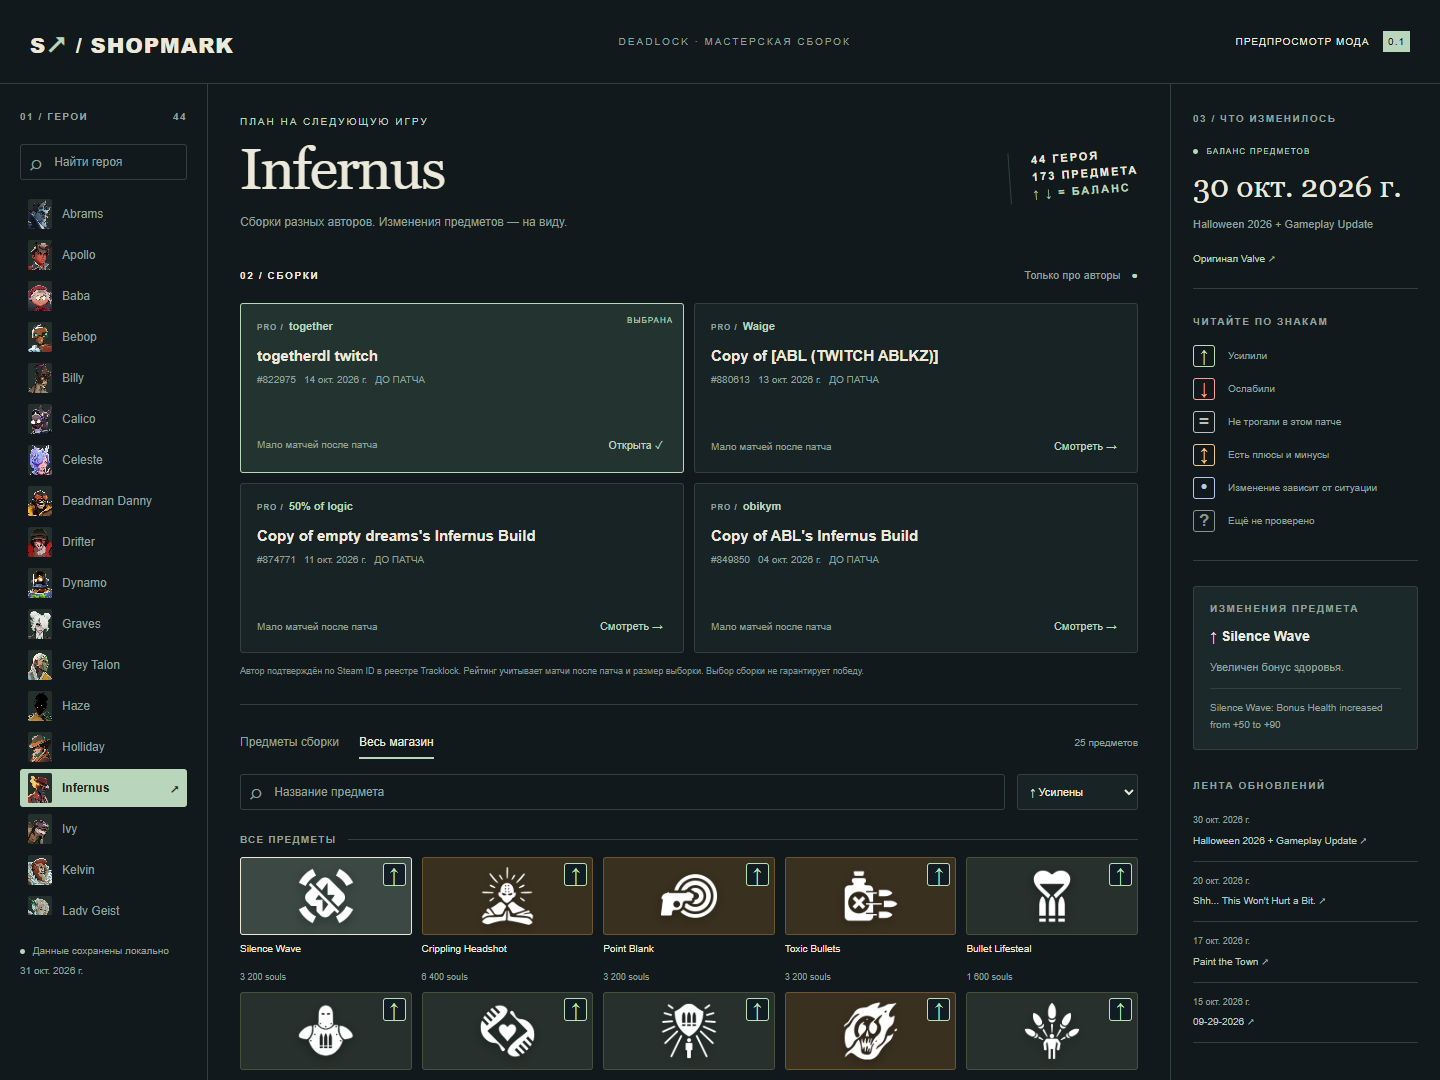
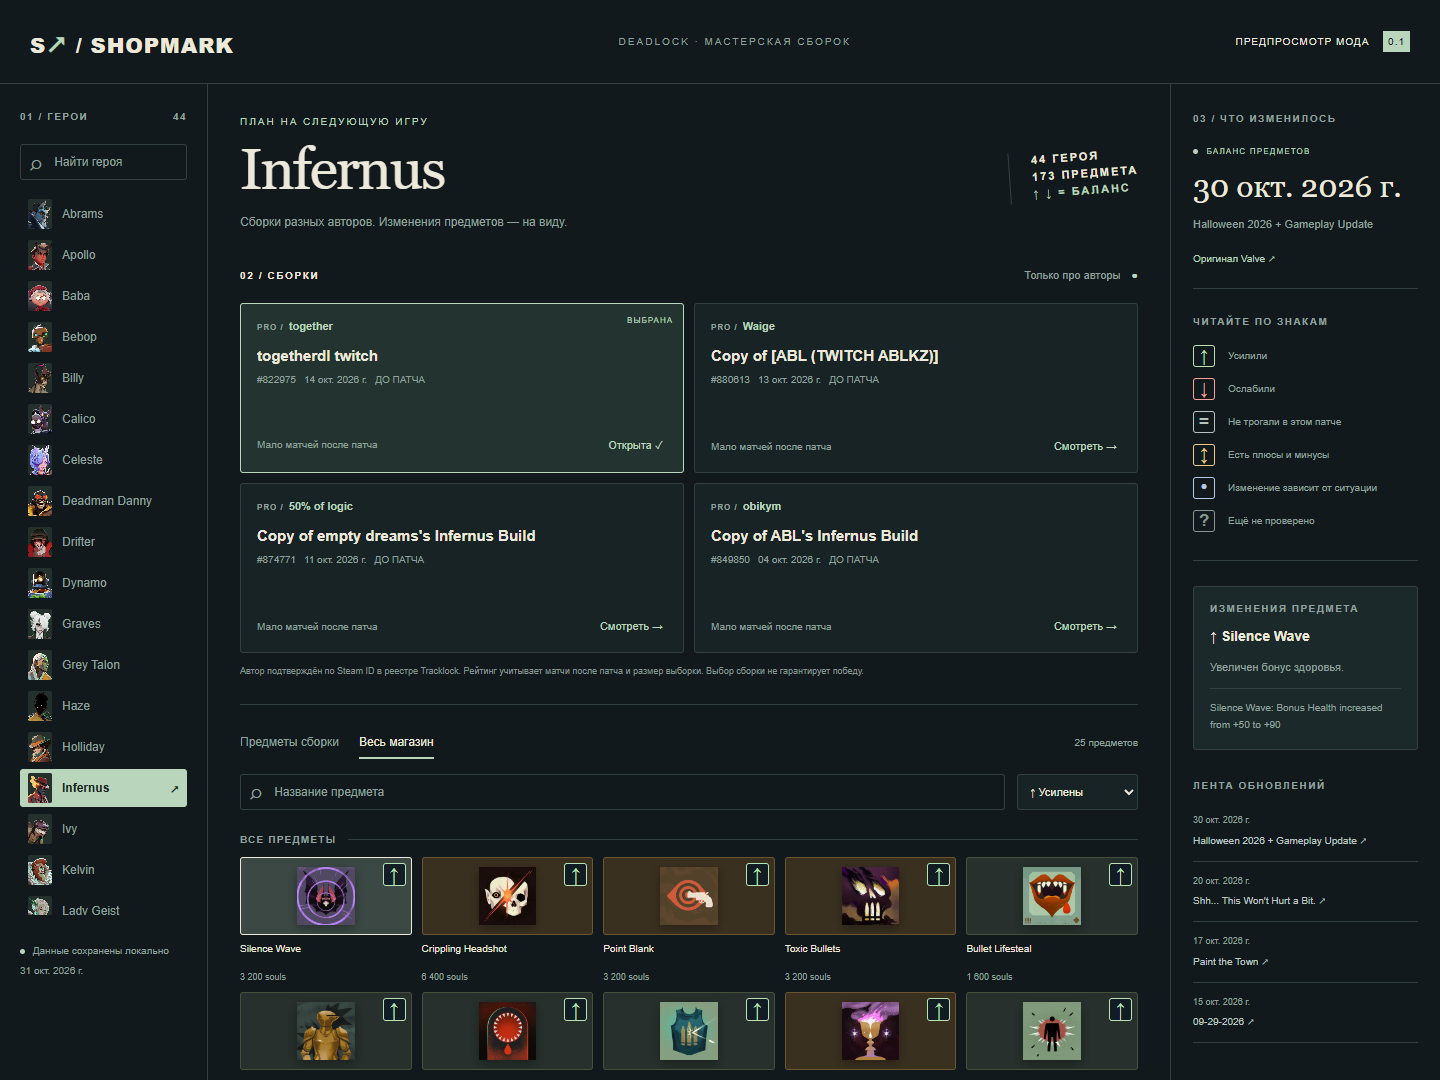
Present public alpha with native shop artwork and guarded local installer

diff --git a/README.md b/README.md
@@ -1,10 +1,24 @@
 # Shopmark
 
+![Shopmark — builds and balance](docs/banner.svg)
+
+[![Checks](https://github.com/d1rtym0lly/shopmark/actions/workflows/check.yml/badge.svg)](https://github.com/d1rtym0lly/shopmark/actions/workflows/check.yml) [![MIT](https://img.shields.io/badge/license-MIT-b9d5bb)](LICENSE) [![Alpha](https://img.shields.io/badge/status-alpha-f0cb7e)](docs/COMPATIBILITY.md)
+
+**[Скачать альфу](https://github.com/d1rtym0lly/shopmark/releases) · [Установка и ограничения](#использование-в-игре) · [Совместимость](docs/COMPATIBILITY.md)**
+
 Сборки разных про авторов и отметки баланса предметов в штатном магазине Deadlock.
 
 **0.1.0 — предварительная сборка для проверки.** VPK скомпилирован для build 6839, проверены контрольные суммы и совпадение исходных ресурсов с установленной игрой. Проверка в игровом интерфейсе пока не завершена: тестовый запуск не получил соединение со Steam. Публикация в каталоги ещё не выполнялась.
 
 ![Интерактивный предпросмотр Shopmark, не скриншот игры](docs/preview.png)
+
+## Shopmark за полминуты
+
+Откройте браузер сборок, выберите своего героя и сравните варианты разных про авторов. Дата и отметка «ДО ПАТЧА» помогают оценить актуальность. Нажатие «Найти» передаёт ID штатному поиску игры; окончательный выбор остаётся на штатной кнопке «Использовать».
+
+В магазине на знакомых игровых изображениях появляются небольшие отметки баланса. Зелёная ↑ — усиление, красная ↓ — ослабление, = — отсутствие упоминания в проверенном разделе патча. ↕ оставляет сложные переработки сложными: подробности доступны в списке изменений.
+
+Предпросмотр использует цветные `shop_image` из игровых ресурсов через Deadlock API Assets. Внутри игры сохранены её собственные изображения; новые текстуры поверх них не поставляются.
 
 ## Что сделано
 
@@ -26,6 +40,8 @@
 6. «Патчи и предметы» переключает подборки на ленту и объяснения отметок.
 
 Передача ID в штатный поиск реализована, но ещё требует проверки в запущенной игре. Мод не переключает игрового героя. Автоматического применения сборки или покупок нет.
+
+Прямая установка в уже настроенный каталог addons: `npm run install:mod`. Скрипт проверяет закрытие игры, SHA-256, актуальность ресурсов и конфликты, выбирает свободный `pakNN_dir.vpk` и сохраняет путь в `.cache/installation.json`. Существующие моды и `gameinfo.gi` не перезаписываются. Для удаления уберите только указанный в записи файл. При пересоздании профиля менеджером добавьте VPK через Add Local Mod.
 
 ## Локальный просмотр и разработка
 
